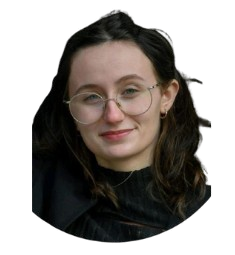
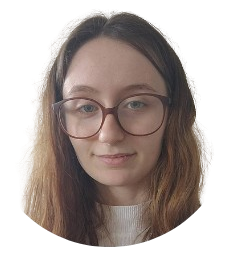
changed cross picto to arrow picto + moved its position + added margin right to pictos

diff --git a/src/components/DetailedItem.tsx b/src/components/DetailedItem.tsx
@@ -6,7 +6,8 @@ import { useCountries } from "../contexts/CountriesContext";
 import styles from "../assets/styles/DetailedItem.module.css";
 import { Link } from "react-router-dom";
 import { useLocation } from "react-router";
-import crossImage from "../assets/pictogram/picto_cross.svg";
+import arrowImage from "../assets/pictogram/picto_arrow.svg";
+import mainCurrencyImage from "../assets/pictogram/picto_mainCurrency.svg";
 
 function DetailedItem() {
 	const { location_id } = useParams<{ location_id: string }>();
@@ -106,7 +107,7 @@ function DetailedItem() {
 
 	return (
 		<>
-			<Link className={styles.linkTo} to={initialPage}><img className={styles.crossImg} alt="Cross Pictogram" src={crossImage}/></Link>
+			<Link className={styles.linkTo} to={initialPage}><img className={styles.crossImg} alt="Cross Pictogram" src={arrowImage}/></Link>
 			<div className={styles.checkBoxes}>
 			<div className={styles.inLine}>
 				<input
@@ -147,6 +148,7 @@ function DetailedItem() {
 				</div>
 				<div className={styles.secondPart}>
 					<p className={styles.miniP}>Has a seashore<img alt="Wave Pictogram" src="/src/assets/pictogram/picto_wave.svg" className={styles.miniPictoLL} />: {country.landlocked ? "No" : "Yes"}</p>
+					<p className={styles.miniP}><img alt="Currency Pictogram" src={mainCurrencyImage} className={styles.miniPicto} /> : {country.currencies}</p>
 					<p>Snowfall: {hasSnowfall ? "Yes" : "No"}</p>
 					<p>Rainy Days: {rainyDays.length}</p>
 					{/* 
@@ -155,7 +157,7 @@ function DetailedItem() {
 			*/}
 					<p>Average Rain Per Day: {averageRainPerDay}mm</p>
 					<p>
-					<img src="/src/assets/pictogram/picto_googleLocalisation.svg" className={styles.miniPicto} />:{" "}
+					<img alt="Google Pictogram" src="/src/assets/pictogram/picto_googleLocalisation.svg" className={styles.miniPicto} />:{" "}
 						<a target="_blank" href={country.maps.googleMaps} rel="noreferrer">
 							View
 						</a>

diff --git a/src/assets/styles/DetailedItem.module.css b/src/assets/styles/DetailedItem.module.css
@@ -1,4 +1,3 @@
-
 * {
 	margin: 0;
 	padding: 0;
@@ -40,15 +39,16 @@ body {
 	padding: 0;
 	width: 1.5rem;
 	height: 1.5rem;
-	border-radius: 0 ;
+	border-radius: 0;
+	margin-right: 2px;
 }
-.miniPictoLL{
+.miniPictoLL {
 	display: inline;
 	margin: 0 0.2rem 0 0.2rem;
 	padding: 0;
 	width: 1.5rem;
 	height: 1.5rem;
-	border-radius: 0 ;
+	border-radius: 0;
 }
 
 p {
@@ -74,7 +74,7 @@ p {
 .inLine {
 	display: flex;
 	flex-direction: row;
-	margin-right: 1rem
+	margin-right: 1rem;
 }
 
 .checkBoxes {
@@ -83,7 +83,7 @@ p {
 	justify-content: center;
 	align-items: center;
 	width: 100%;
-	padding-left:30px;
+	padding-left: 30px;
 	padding-right: 30px;
 }
 
@@ -122,10 +122,11 @@ label {
 
 .linkTo {
 	display: flex;
-	justify-content: flex-end;
+	justify-content: flex-start;
 	margin-top: 20px;
+	margin-left: 20px;
 }
-.crossImg{
+.crossImg {
 	width: 50px;
 	height: auto;
 }
@@ -153,5 +154,4 @@ label {
 	.typicalImg {
 		margin-bottom: 100px;
 	}
-
 }
